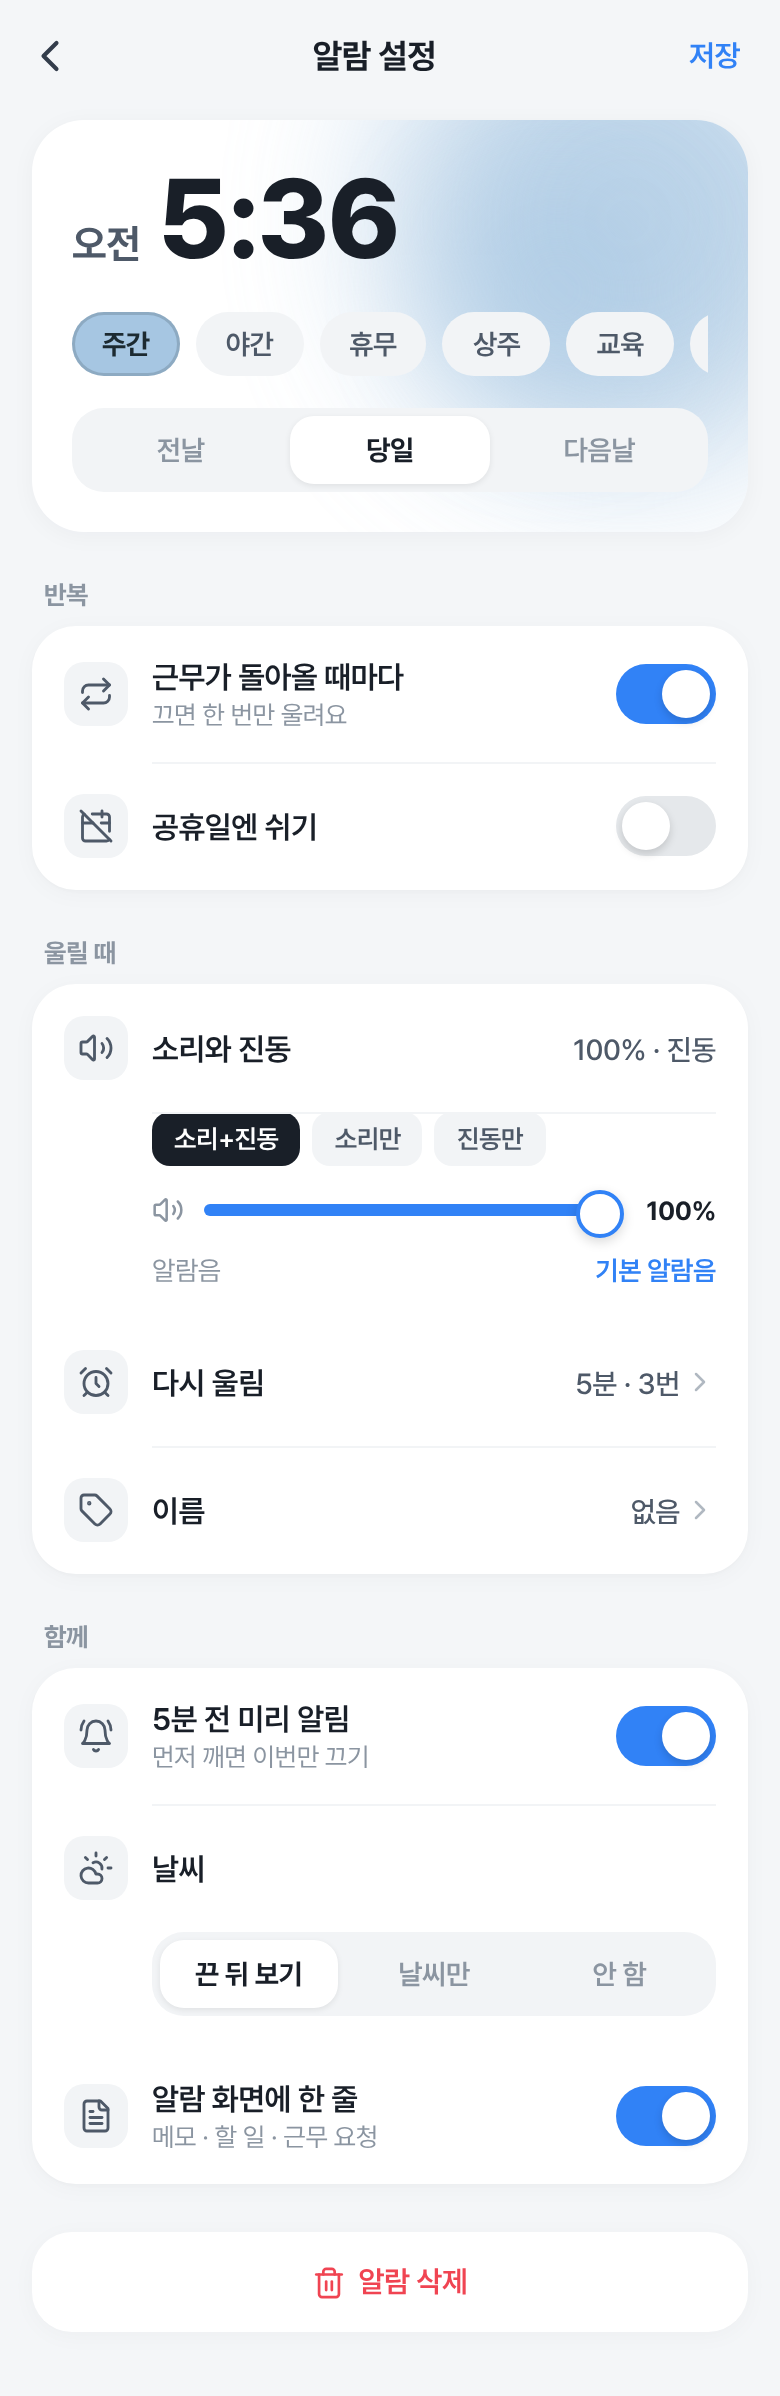
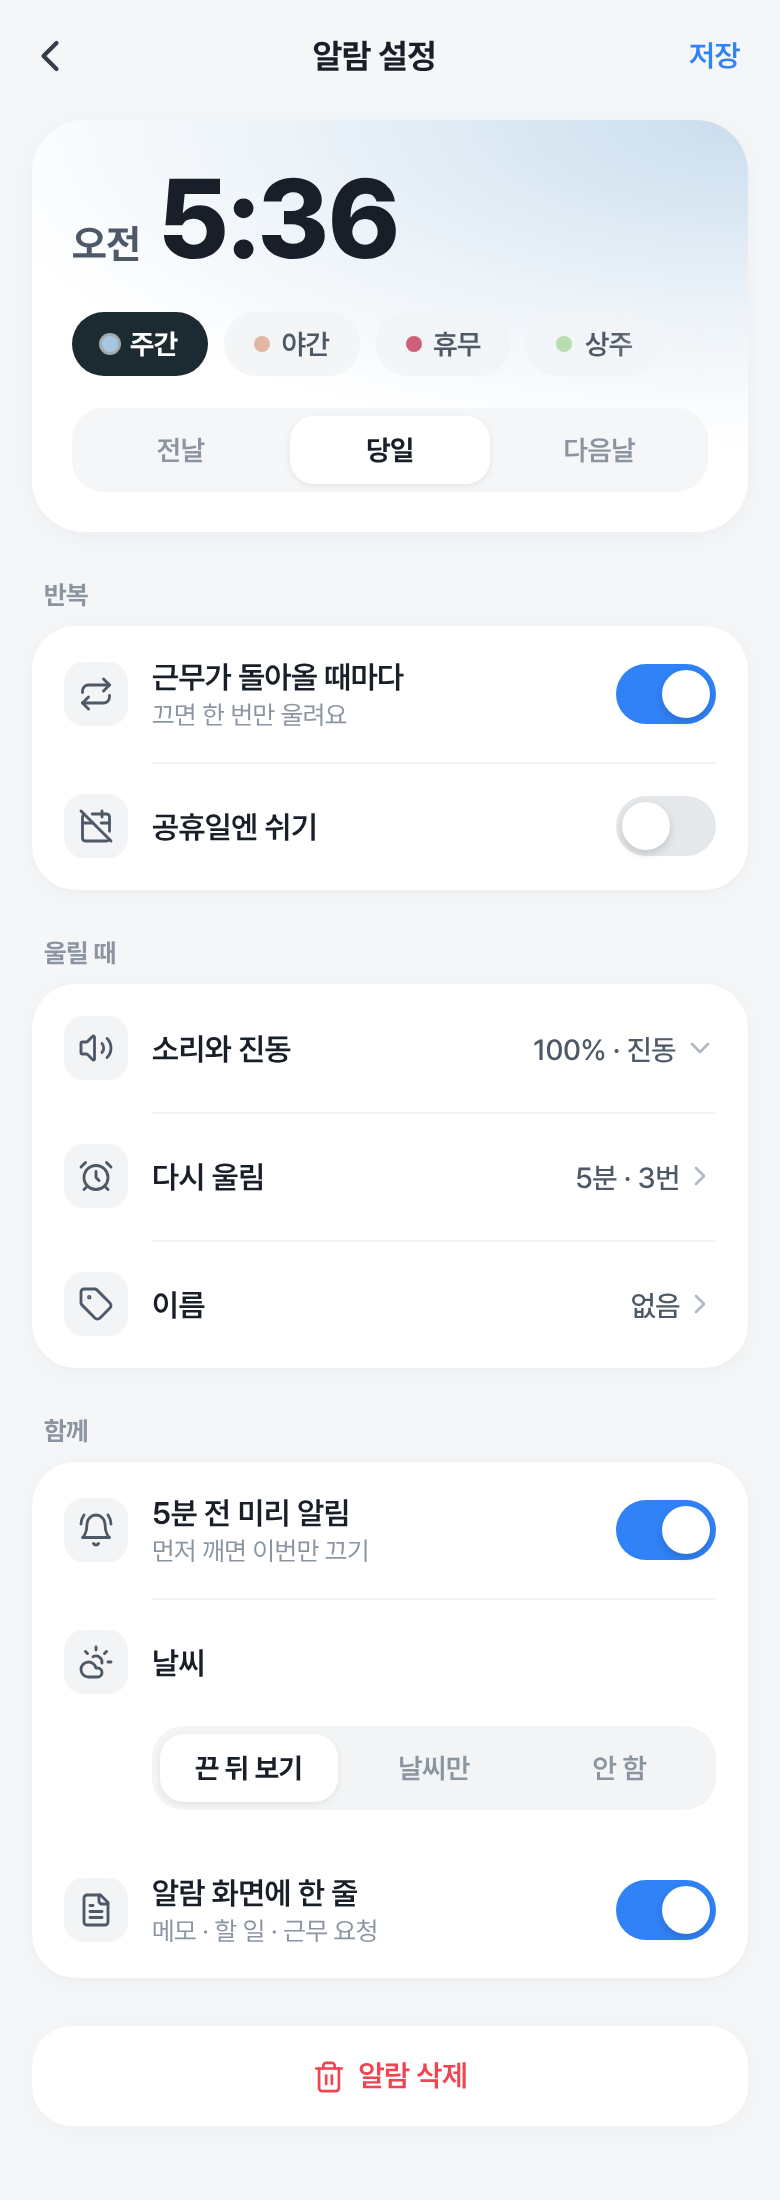
design: 알람 고치기 시안 7
Claude-Session: https://claude.ai/code/session_01JTBnEvptp151JygSjZNCTX

diff --git a/design/alarm-edit/v7.html b/design/alarm-edit/v7.html
@@ -1,0 +1,247 @@
+<!doctype html><meta charset="utf-8"><meta name="viewport" content="width=device-width">
+<style>
+@font-face{font-family:Pretendard;src:url(PretendardVariable.woff2) format("woff2-variations");font-weight:45 920}
+:root{--sc:#a6c6e2;--sf:#1c2a31;--ink:#191f28;--ink2:#4e5968;--ink3:#8b95a1;--bg:#f4f6f8;--card:#fff;--fill:#f2f4f6;--acc:#3182f6}
+*{box-sizing:border-box}body{margin:0;background:var(--bg);color:var(--ink);font-family:Pretendard,sans-serif;letter-spacing:-.2px;-webkit-font-smoothing:antialiased}
+.top{height:56px;display:flex;align-items:center;justify-content:space-between;padding:0 12px}.top .b{color:#333d4b;display:flex}.top h1{font-size:17px;font-weight:700;margin:0}.top .s{color:var(--acc);font-weight:600;font-size:15px;padding:6px 8px}
+main{padding:4px 16px 32px}
+.hero{position:relative;overflow:hidden;background:var(--card);border-radius:26px;padding:22px 20px 20px;box-shadow:0 2px 12px rgba(15,23,42,.04)}
+.glow{position:absolute;top:-70px;right:-60px;width:240px;height:240px;border-radius:50%;background:var(--sc);filter:blur(40px);opacity:.75;pointer-events:none}
+.glow2{position:absolute;top:30px;right:40px;width:110px;height:110px;border-radius:50%;background:var(--sc);filter:blur(30px);opacity:.5}
+.hero>*:not(.glow):not(.glow2){position:relative}
+.tm{display:flex;align-items:baseline;gap:8px}.tm small{font-size:20px;font-weight:700;color:var(--ink2)}.tm b{font-size:56px;font-weight:800;letter-spacing:-2px;line-height:1;font-variant-numeric:tabular-nums}
+.pills{display:flex;gap:8px;margin-top:18px;overflow:hidden}.p{flex:none;padding:8px 15px;border-radius:999px;background:var(--fill);color:var(--ink2);font-size:14px;font-weight:600}.p.on{background:var(--sc);color:var(--sf);font-weight:700;box-shadow:inset 0 0 0 1.5px color-mix(in srgb,var(--sf) 18%,transparent)}
+.seg{display:grid;grid-template-columns:repeat(3,1fr);gap:4px;background:var(--fill);padding:4px;border-radius:16px;margin-top:16px}.seg span{text-align:center;padding:9px 0;border-radius:12px;font-size:14px;font-weight:600;color:var(--ink3)}.seg span.on{background:#fff;color:var(--ink);font-weight:700;box-shadow:0 1px 3px rgba(0,0,0,.08)}
+h2{font-size:13px;font-weight:700;color:var(--ink3);margin:24px 6px 8px}
+.g{background:var(--card);border-radius:22px;box-shadow:0 2px 12px rgba(15,23,42,.03),0 1px 2px rgba(15,23,42,.02);overflow:hidden}
+.r{display:flex;align-items:center;gap:12px;padding:16px;position:relative}.r+.r::before,.r+.sd::before{content:'';position:absolute;top:0;left:60px;right:16px;height:1px;background:#f2f4f6}
+.ti{width:32px;height:32px;border-radius:10px;background:var(--fill);color:var(--ink2);display:flex;align-items:center;justify-content:center;flex:none}
+.l{flex:1;min-width:0}.n{font-size:15.5px;font-weight:600}.d{font-size:13px;color:var(--ink3);margin-top:2px}
+.v{display:flex;align-items:center;gap:2px;font-size:14.5px;font-weight:500;color:var(--ink2);flex:none}.v svg{color:#b0b8c1}
+.tg{width:50px;height:30px;border-radius:15px;background:#e5e8eb;position:relative;flex:none}.tg::after{content:'';position:absolute;top:3px;left:3px;width:24px;height:24px;border-radius:50%;background:#fff;box-shadow:0 2px 4px rgba(0,0,0,.15)}.tg.on{background:var(--acc)}.tg.on::after{left:23px}
+.sd{padding:0 16px 16px 60px;position:relative}
+.mini{display:flex;gap:6px}.mp{padding:6px 11px;border-radius:9px;background:var(--fill);font-size:13px;font-weight:600;color:var(--ink2)}.mp.on{background:var(--ink);color:#fff}
+.sl{display:flex;align-items:center;gap:10px;margin-top:14px}.trk{flex:1;height:6px;border-radius:3px;background:var(--acc);position:relative}.trk::after{content:'';position:absolute;right:-2px;top:-7px;width:20px;height:20px;border-radius:50%;background:#fff;border:2px solid var(--acc);box-shadow:0 2px 6px rgba(0,0,0,.15)}.sl b{font-size:13px;width:38px;text-align:right}
+.tone{display:flex;justify-content:space-between;margin-top:14px;font-size:13.5px;color:var(--ink3)}.tone span:last-child{color:var(--acc);font-weight:600}
+.wseg{margin:0 16px 16px 60px}
+.del{margin-top:24px;background:var(--card);border-radius:20px;padding:16px;display:flex;justify-content:center;align-items:center;gap:6px;color:#f04452;font-weight:600;font-size:15px;box-shadow:0 2px 12px rgba(15,23,42,.03)}
+
+.hero{background:radial-gradient(140% 100% at 100% 0%,color-mix(in srgb,var(--sc) 60%,#fff) 0%,color-mix(in srgb,var(--sc) 22%,#fff) 45%,#fff 80%)!important}
+.hero .seg{background:rgba(242,244,246,.85)}
+.pills{position:relative;-webkit-mask-image:linear-gradient(90deg,#000 85%,transparent);mask-image:linear-gradient(90deg,#000 85%,transparent)}
+.p{display:flex;align-items:center;gap:6px;background:rgba(242,244,246,.9)}.p i{width:8px;height:8px;border-radius:50%;flex:none}
+.p.on{background:var(--sf)!important;color:#fff!important;box-shadow:none!important}.p.on i{box-shadow:0 0 0 1.5px rgba(255,255,255,.6)}
+.chev{color:#b0b8c1;display:flex;margin-left:2px}
+</style>
+<div class="top"><span class="b"><svg
+  class=" lucide lucide-chevron-left"
+  xmlns="http://www.w3.org/2000/svg"
+  width="26"
+  height="26"
+  viewBox="0 0 24 24"
+  fill="none"
+  stroke="currentColor"
+  stroke-width="1.9"
+  stroke-linecap="round"
+  stroke-linejoin="round"
+>
+  <path d="m15 18-6-6 6-6" />
+</svg></span><h1>알람 설정</h1><span class="s">저장</span></div>
+<main>
+<section class="hero">
+ <div class="tm"><small>오전</small><b>5:36</b></div>
+ <div class="pills"><span class="p on"><i style="background:#a6c6e2"></i>주간</span><span class="p"><i style="background:#e0b8a3"></i>야간</span><span class="p"><i style="background:#d0607a"></i>휴무</span><span class="p"><i style="background:#b9dcb0"></i>상주</span><span class="p"><i style="background:#c9b8e8"></i>교육</span><span class="p"><i style="background:#c9ced6"></i>없음</span></div>
+ <div class="seg"><span>전날</span><span class="on">당일</span><span>다음날</span></div>
+</section>
+<h2>반복</h2><div class="g">
+<div class="r"><span class="ti"><svg
+  class=" lucide lucide-repeat"
+  xmlns="http://www.w3.org/2000/svg"
+  width="18"
+  height="18"
+  viewBox="0 0 24 24"
+  fill="none"
+  stroke="currentColor"
+  stroke-width="1.9"
+  stroke-linecap="round"
+  stroke-linejoin="round"
+>
+  <path d="m17 2 4 4-4 4" />
+  <path d="M3 11v-1a4 4 0 0 1 4-4h14" />
+  <path d="m7 22-4-4 4-4" />
+  <path d="M21 13v1a4 4 0 0 1-4 4H3" />
+</svg></span><div class="l"><div class="n">근무가 돌아올 때마다</div><div class="d">끄면 한 번만 울려요</div></div><span class="tg on"></span></div>
+<div class="r"><span class="ti"><svg
+  class=" lucide lucide-calendar-off"
+  xmlns="http://www.w3.org/2000/svg"
+  width="18"
+  height="18"
+  viewBox="0 0 24 24"
+  fill="none"
+  stroke="currentColor"
+  stroke-width="1.9"
+  stroke-linecap="round"
+  stroke-linejoin="round"
+>
+  <path d="M4.2 4.2A2 2 0 0 0 3 6v14a2 2 0 0 0 2 2h14a2 2 0 0 0 1.82-1.18" />
+  <path d="M21 15.5V6a2 2 0 0 0-2-2H9.5" />
+  <path d="M16 2v4" />
+  <path d="M3 10h7" />
+  <path d="M21 10h-5.5" />
+  <path d="m2 2 20 20" />
+</svg></span><div class="l"><div class="n">공휴일엔 쉬기</div></div><span class="tg"></span></div>
+</div>
+<h2>울릴 때</h2><div class="g">
+<div class="r"><span class="ti"><svg
+  class=" lucide lucide-volume-2"
+  xmlns="http://www.w3.org/2000/svg"
+  width="18"
+  height="18"
+  viewBox="0 0 24 24"
+  fill="none"
+  stroke="currentColor"
+  stroke-width="1.9"
+  stroke-linecap="round"
+  stroke-linejoin="round"
+>
+  <path d="M11 4.702a.705.705 0 0 0-1.203-.498L6.413 7.587A1.4 1.4 0 0 1 5.416 8H3a1 1 0 0 0-1 1v6a1 1 0 0 0 1 1h2.416a1.4 1.4 0 0 1 .997.413l3.383 3.384A.705.705 0 0 0 11 19.298z" />
+  <path d="M16 9a5 5 0 0 1 0 6" />
+  <path d="M19.364 18.364a9 9 0 0 0 0-12.728" />
+</svg></span><div class="l"><div class="n">소리와 진동</div></div><span class="v">100% · 진동<span class="chev"><svg width="16" height="16" viewBox="0 0 24 24" fill="none" stroke="currentColor" stroke-width="1.9" stroke-linecap="round" stroke-linejoin="round"><path d="m6 9 6 6 6-6"/></svg></span></span></div>
+<div class="r"><span class="ti"><svg
+  class=" lucide lucide-alarm-clock"
+  xmlns="http://www.w3.org/2000/svg"
+  width="18"
+  height="18"
+  viewBox="0 0 24 24"
+  fill="none"
+  stroke="currentColor"
+  stroke-width="1.9"
+  stroke-linecap="round"
+  stroke-linejoin="round"
+>
+  <circle cx="12" cy="13" r="8" />
+  <path d="M12 9v4l2 2" />
+  <path d="M5 3 2 6" />
+  <path d="m22 6-3-3" />
+  <path d="M6.38 18.7 4 21" />
+  <path d="M17.64 18.67 20 21" />
+</svg></span><div class="l"><div class="n">다시 울림</div></div><span class="v">5분 · 3번<svg
+  class=" lucide lucide-chevron-right"
+  xmlns="http://www.w3.org/2000/svg"
+  width="16"
+  height="16"
+  viewBox="0 0 24 24"
+  fill="none"
+  stroke="currentColor"
+  stroke-width="1.9"
+  stroke-linecap="round"
+  stroke-linejoin="round"
+>
+  <path d="m9 18 6-6-6-6" />
+</svg></span></div>
+<div class="r"><span class="ti"><svg
+  class=" lucide lucide-tag"
+  xmlns="http://www.w3.org/2000/svg"
+  width="18"
+  height="18"
+  viewBox="0 0 24 24"
+  fill="none"
+  stroke="currentColor"
+  stroke-width="1.9"
+  stroke-linecap="round"
+  stroke-linejoin="round"
+>
+  <path d="M12.586 2.586A2 2 0 0 0 11.172 2H4a2 2 0 0 0-2 2v7.172a2 2 0 0 0 .586 1.414l8.704 8.704a2.426 2.426 0 0 0 3.42 0l6.58-6.58a2.426 2.426 0 0 0 0-3.42z" />
+  <circle cx="7.5" cy="7.5" r=".5" fill="currentColor" />
+</svg></span><div class="l"><div class="n">이름</div></div><span class="v">없음<svg
+  class=" lucide lucide-chevron-right"
+  xmlns="http://www.w3.org/2000/svg"
+  width="16"
+  height="16"
+  viewBox="0 0 24 24"
+  fill="none"
+  stroke="currentColor"
+  stroke-width="1.9"
+  stroke-linecap="round"
+  stroke-linejoin="round"
+>
+  <path d="m9 18 6-6-6-6" />
+</svg></span></div>
+</div>
+<h2>함께</h2><div class="g">
+<div class="r"><span class="ti"><svg
+  class=" lucide lucide-bell-ring"
+  xmlns="http://www.w3.org/2000/svg"
+  width="18"
+  height="18"
+  viewBox="0 0 24 24"
+  fill="none"
+  stroke="currentColor"
+  stroke-width="1.9"
+  stroke-linecap="round"
+  stroke-linejoin="round"
+>
+  <path d="M6 8a6 6 0 0 1 12 0c0 7 3 9 3 9H3s3-2 3-9" />
+  <path d="M10.3 21a1.94 1.94 0 0 0 3.4 0" />
+  <path d="M4 2C2.8 3.7 2 5.7 2 8" />
+  <path d="M22 8c0-2.3-.8-4.3-2-6" />
+</svg></span><div class="l"><div class="n">5분 전 미리 알림</div><div class="d">먼저 깨면 이번만 끄기</div></div><span class="tg on"></span></div>
+<div class="r"><span class="ti"><svg
+  class=" lucide lucide-cloud-sun"
+  xmlns="http://www.w3.org/2000/svg"
+  width="18"
+  height="18"
+  viewBox="0 0 24 24"
+  fill="none"
+  stroke="currentColor"
+  stroke-width="1.9"
+  stroke-linecap="round"
+  stroke-linejoin="round"
+>
+  <path d="M12 2v2" />
+  <path d="m4.93 4.93 1.41 1.41" />
+  <path d="M20 12h2" />
+  <path d="m19.07 4.93-1.41 1.41" />
+  <path d="M15.947 12.65a4 4 0 0 0-5.925-4.128" />
+  <path d="M13 22H7a5 5 0 1 1 4.9-6H13a3 3 0 0 1 0 6Z" />
+</svg></span><div class="l"><div class="n">날씨</div></div></div>
+<div class="seg wseg"><span class="on">끈 뒤 보기</span><span>날씨만</span><span>안 함</span></div>
+<div class="r"><span class="ti"><svg
+  class=" lucide lucide-file-text"
+  xmlns="http://www.w3.org/2000/svg"
+  width="18"
+  height="18"
+  viewBox="0 0 24 24"
+  fill="none"
+  stroke="currentColor"
+  stroke-width="1.9"
+  stroke-linecap="round"
+  stroke-linejoin="round"
+>
+  <path d="M15 2H6a2 2 0 0 0-2 2v16a2 2 0 0 0 2 2h12a2 2 0 0 0 2-2V7Z" />
+  <path d="M14 2v4a2 2 0 0 0 2 2h4" />
+  <path d="M10 9H8" />
+  <path d="M16 13H8" />
+  <path d="M16 17H8" />
+</svg></span><div class="l"><div class="n">알람 화면에 한 줄</div><div class="d">메모 · 할 일 · 근무 요청</div></div><span class="tg on"></span></div>
+</div>
+<div class="del"><svg
+  class=" lucide lucide-trash-2"
+  xmlns="http://www.w3.org/2000/svg"
+  width="17"
+  height="17"
+  viewBox="0 0 24 24"
+  fill="none"
+  stroke="currentColor"
+  stroke-width="1.9"
+  stroke-linecap="round"
+  stroke-linejoin="round"
+>
+  <path d="M3 6h18" />
+  <path d="M19 6v14c0 1-1 2-2 2H7c-1 0-2-1-2-2V6" />
+  <path d="M8 6V4c0-1 1-2 2-2h4c1 0 2 1 2 2v2" />
+  <line x1="10" x2="10" y1="11" y2="17" />
+  <line x1="14" x2="14" y1="11" y2="17" />
+</svg>알람 삭제</div>
+</main>

diff --git a/docs/TODO.md b/docs/TODO.md
@@ -2444,6 +2444,7 @@
 - 글씨 진하게(설명 회색도 진하게) · 설명은 꼭 필요한 것만 한 줄.
 - 시안 5: 글꼴 Pretendard(가변 woff2 2MB · assets/fonts · OFL) · 큰 시간 굵게 · 카드 옅은 그림자 · 둥근 모서리 22. 글꼴은 앱 전체에 적용할지 만들 때 판단(전 화면 글씨가 진해짐).
 - 시안 6 (토스 느낌 · design/alarm-edit/v6.html): 위 칸 흰 바탕 + 오른쪽 위 근무 색 빛 번짐(진하게) · 고른 근무 칩 = 근무 색 · 줄마다 회색 칸 안 선 아이콘(lucide · 한 가지 색) · 소리와 진동은 펼쳐서 방식(소리+진동/소리만/진동만) · 크기 막대 · 알람음 · 토글 파랑 · 삭제에 휴지통 선 아이콘.
+- 시안 7 (design/alarm-edit/v7.html · 지금 기준): 빛 번짐 → 위 칸 오른쪽 위에서 퍼지는 근무 색 은은한 바탕(한 색 · 경계 없음) · 근무 칩마다 그 근무 색 점 · 고른 칩 = 진한 바탕 흰 글씨 · 칩 줄 오른쪽 흐려짐(옆으로 더 있음) · 소리와 진동은 접힌 상태(누르면 펼침).
 - (아래는 처음 생각)
 - 문제: 줄 9개가 한 줄로 쭉 · 설명이 " · " 이어 붙인 메모 같음 ("먼저 깼으면 … · 소리 없음 · 알람 때 저절로 사라짐").
 - 제안 (시안 먼저):
